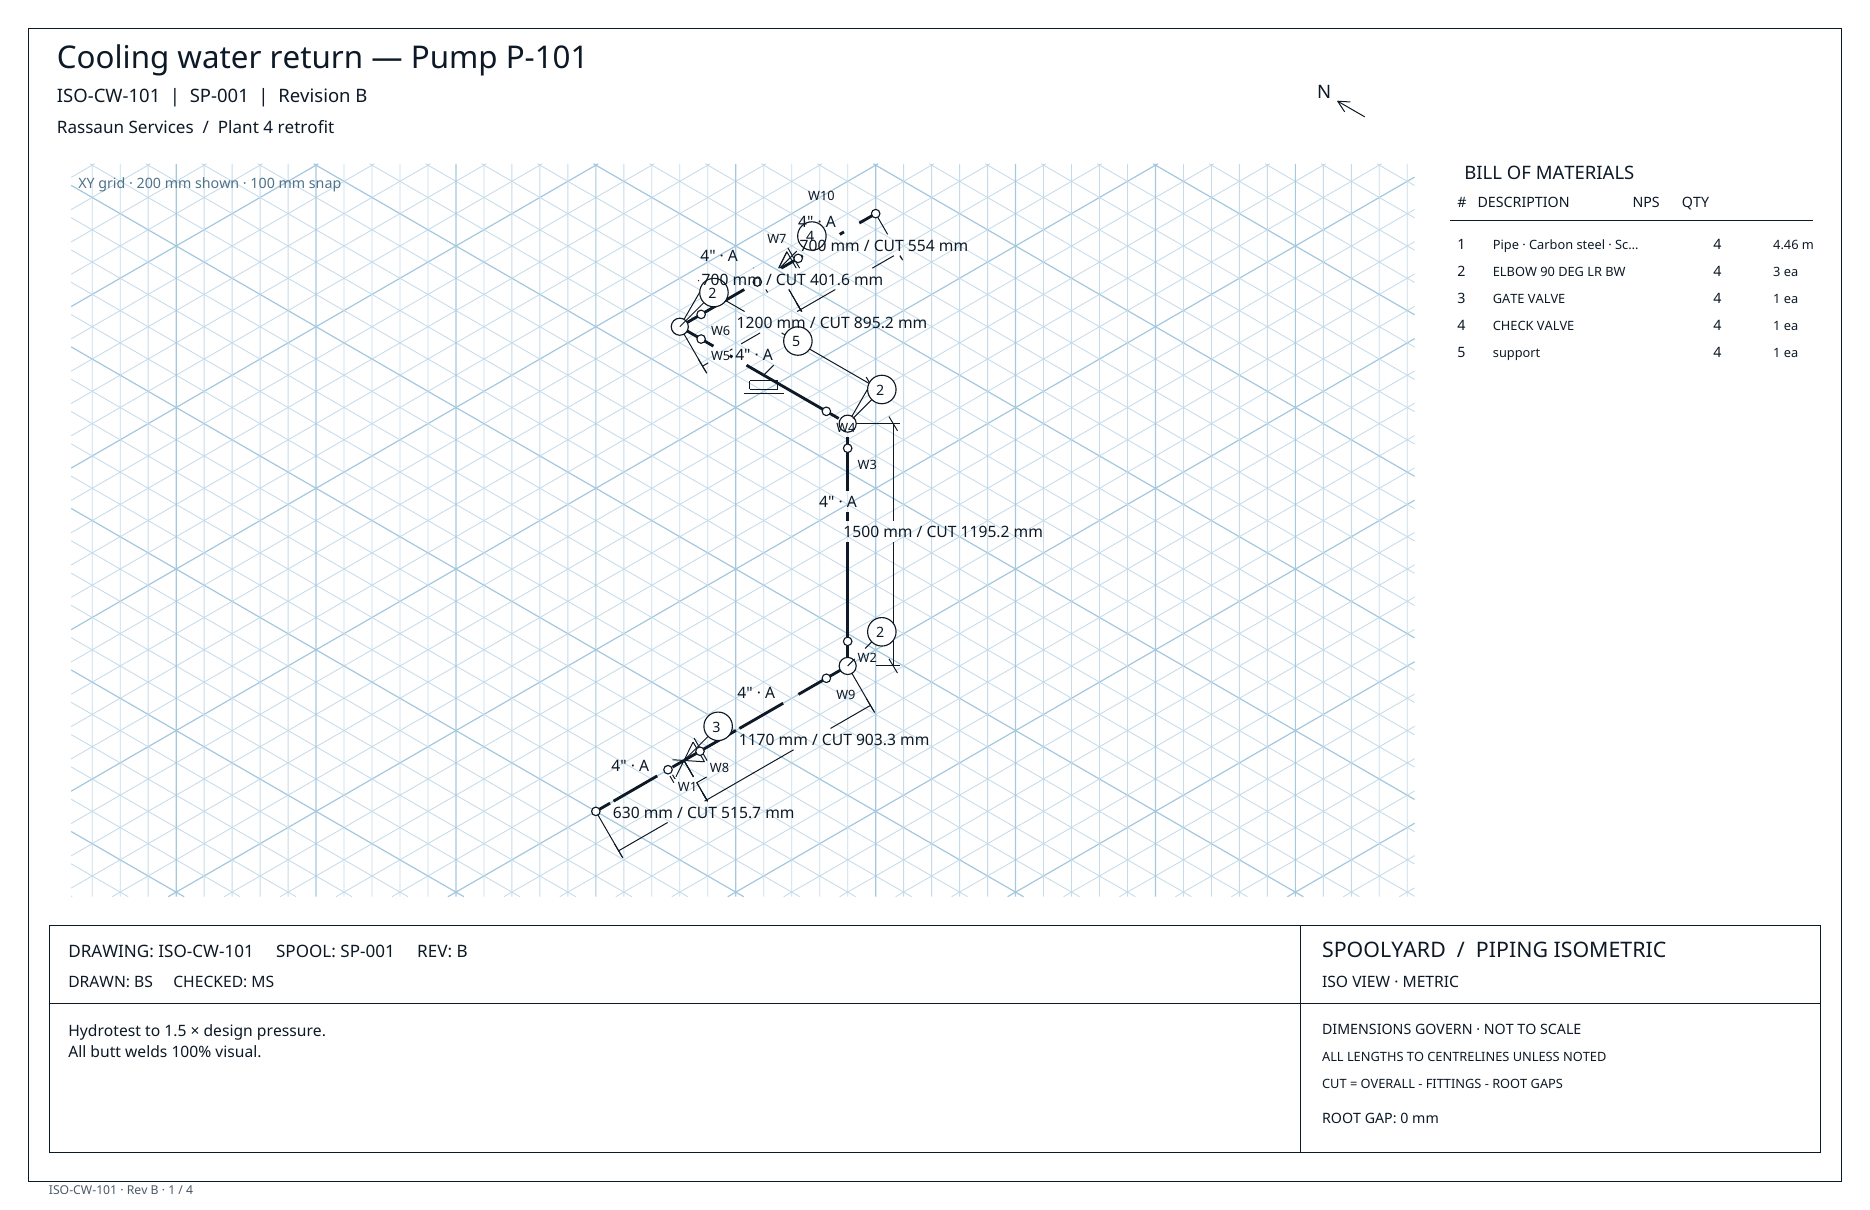
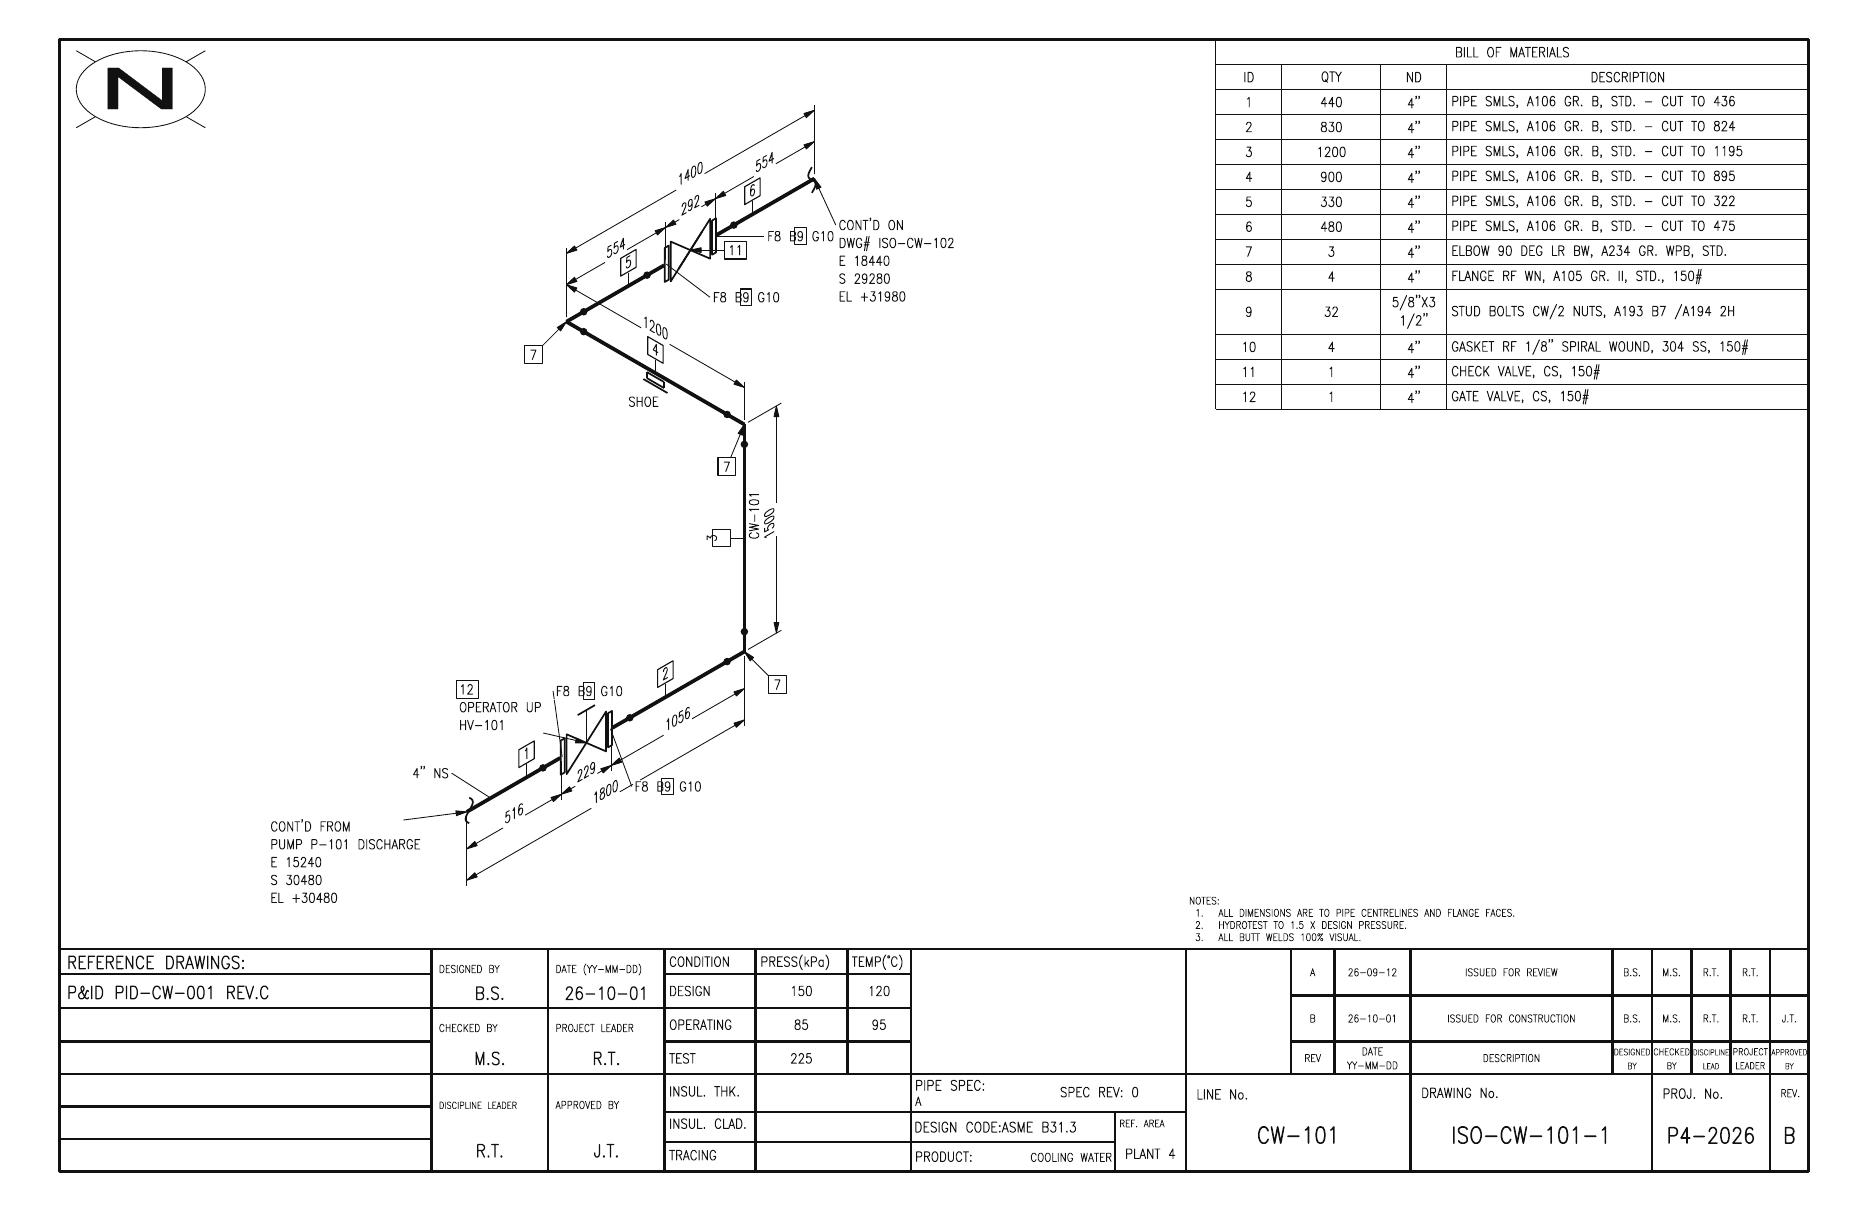
Describe production isometrics in the README

Changed region(s): [[0.031, 0.0306, 0.9925, 1.0], [0.9615, 0.7645, 0.9925, 0.795]]

diff --git a/README.md b/README.md
@@ -29,21 +29,29 @@ where it powers piping isometrics in Files and Tools.
 
 ## What it does
 
+- **Production isometrics.** Sheets are issued the way piping drafters draw them: a full title block with
+  revisions and logos, an ID / QTY / ND / DESCRIPTION bill of materials with `CUT TO` lengths, boxed item tags
+  with leaders, `F12 B13 G14` flanged-joint callouts, isometric-plane dimensions and lettering, continuation
+  callouts with plant coordinates, centreline elevations, tie points, valve operators and offset triangles. The
+  sheet can be drawn not to scale so short pieces stay readable, and labels are placed so nothing overlaps.
 - **Measured routing.** Click along the six iso directions with Ortho on, or type a length and pick East, North
   or Up. Bends and branches get the specification's elbows and tees automatically; rolling offsets route in XYZ.
 - **Cut lengths you can build from.** Each pipe's cut is the centreline length less fitting takeouts and root
-  gaps, per end preparation (butt-weld, socket-weld, threaded, plain).
-- **Specifications with real rows.** Eleven carbon- and stainless-steel specifications ship ready to use, with
-  about 15,000 rows of ASME B16 dimensions: pipe, elbows and returns, tees, crosses and laterals, reducers and
-  swages, caps and plugs, couplings and unions, olets, flanges, gaskets and bolting, valves and supports. Every
-  row is editable; add your own specifications, sizes and components.
-- **168 components and symbols** in the component library, each drawn on the sheet with its own symbol.
+  gaps, per end preparation (butt-weld, socket-weld, threaded, plain). A flanged valve or fitting brings its
+  mating flanges (weld-neck, slip-on or lap-joint with stub end), gaskets and ASME B16.5 bolting, and their
+  lengths come off the pipe.
+- **Standard dimensions built in.** Specifications supply their own rows; anything they lack falls back to ASME
+  B16.5, B16.9, B16.10, B16.11, B16.20/21, MSS SP-43 and API 609 tables, so standard components never need a
+  length typed in. Eleven carbon- and stainless-steel specifications ship ready to use, with about 15,000 rows;
+  every row is editable, and you can add your own specifications, sizes and components.
+- **174 components and symbols** in the component library, each drawn on the sheet in its isometric plane.
 - **Weld map and BOM.** Shop and field welds are numbered (numeric or alphabetic, with your own tags), and the
-  bill of materials keeps heat numbers, specs and measured fittings distinct.
-- **Paper or model space.** Draw directly on a tabloid, letter, A3 or A4 sheet with an editable title block, or
-  switch to an infinite isometric grid. A 3D review checks the routing.
+  bill of materials counts gaskets and bolts per flanged joint and keeps heat numbers, specs and measured
+  fittings distinct.
+- **Paper or model space.** Draw directly on the issued sheet, or switch to an infinite isometric grid. A 3D
+  review checks the routing.
 - **Outputs.** A full-page PDF package (one sheet per spool and view, plus material, cut and weld schedules),
-  DXF and native DWG, PCF for plant-design tools, SVG, and CSV schedules.
+  DXF and native DWG with AutoCAD ROMANS lettering, PCF for plant-design tools, SVG, and CSV schedules.
 
 | Specifications | Component library |
 | --- | --- |
